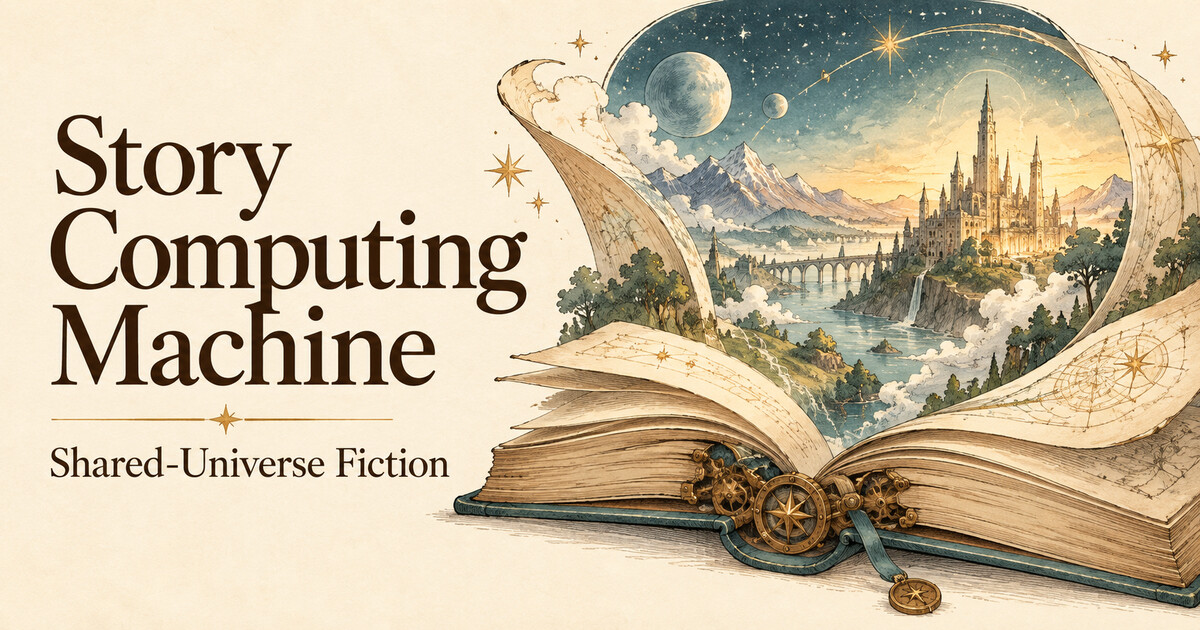
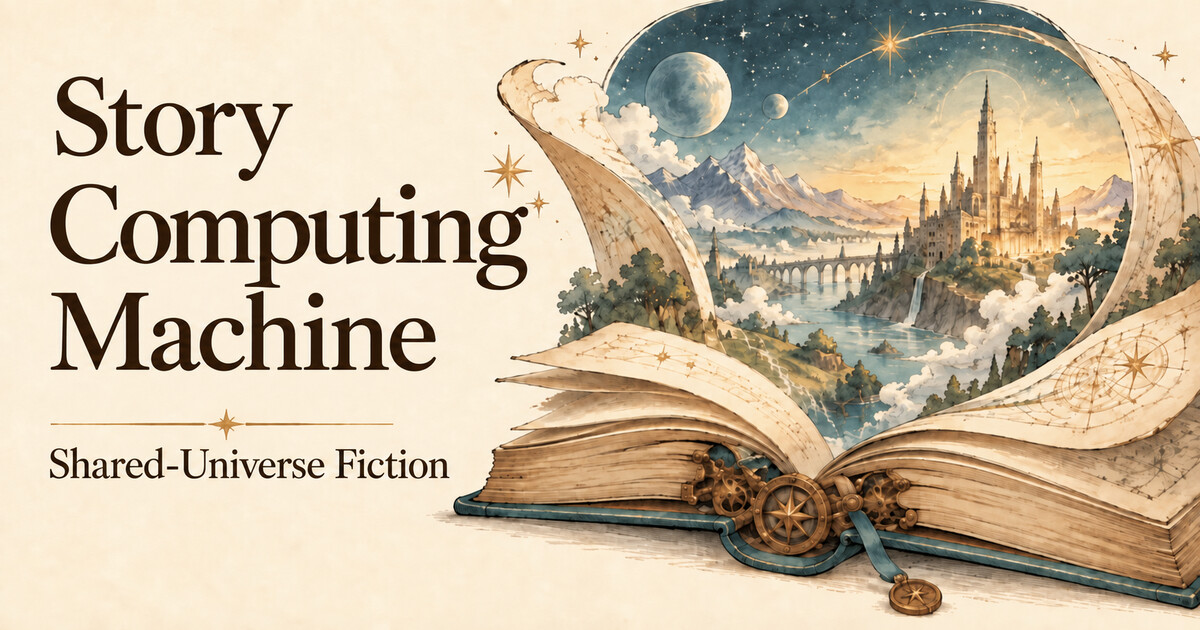
Increase vertical spacing in social preview title

diff --git a/README.md b/README.md
@@ -162,6 +162,16 @@ The artwork was generated with the built-in Codex image tool using this prompt:
 Use case: ads-marketing. Create a finished landscape social link preview for Story Computing Machine, a shared-universe fiction library. Canvas: exactly 1200 by 630 pixels. On warm ivory paper, set large, exceptionally readable dark espresso literary serif type on the left: "Story" / "Computing" / "Machine" on three lines, with the smaller subtitle "Shared-Universe Fiction". On the right, illustrate an open book whose curling pages become a luminous miniature landscape of a distant city, mountains, and stars, with subtle brass mechanical details near the binding. Use refined anime-inspired pen contours, delicate hatching, restrained watercolor washes, warm amber light and muted teal accents. Editorial book-jacket composition, generous breathing room, compelling at small mobile-card size. Keep all text and important artwork comfortably inside an 80-pixel safe margin. Only the exact title and subtitle are readable text. No people, logos, URLs, watermarks, mockup frame, or interface elements.
 ```
 
+The title line spacing was refined with two built-in image edits:
+
+```text
+Use case: text-localization. Edit the supplied social preview image with one precise typography adjustment: add a little more vertical space between the three title lines "Story", "Computing", and "Machine". Preserve the exact serif typeface, font sizes, word widths, dark espresso color, left alignment, and spelling. Increase the baseline spacing by about 20 pixels per gap on the 1200×630 canvas: move "Story" about 40 pixels upward and "Computing" about 20 pixels upward, keeping "Machine" in its current position. The descenders should have visible breathing room above the following line. Keep the decorative rule, star, subtitle "Shared-Universe Fiction", paper texture, and entire book/landscape illustration in exactly their existing positions and appearance. Do not redraw, restyle, add, or remove any other elements. Preserve the 1200×630 landscape composition.
+```
+
+```text
+undefined
+```
+
 ## Local commands
 
 Install the Python dependencies, Markdown and Pillow:
